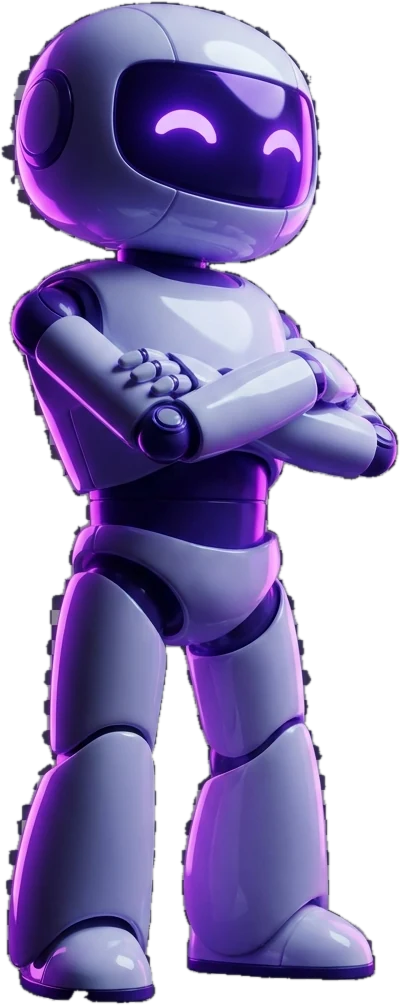
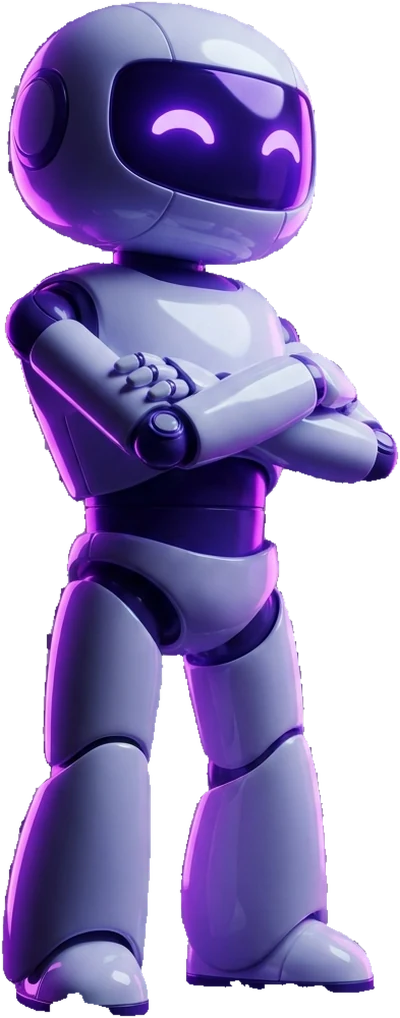
Recortar bien el robot: fuera el fleco dentado del damero
El generador ignoro "fondo transparente" y pinto el damero de cuadros que
representa la transparencia. El primer recorte lo quitaba casi todo, pero
dejaba un fleco dentado en el contorno que se veia a simple vista.

La causa, medida pixel a pixel: las casillas oscuras pegadas al robot estan
TENIDAS por su luz violeta. Valores tipo (45,36,65), con saturacion de 22 a
45, cuando el umbral de "gris neutro" estaba en 20. Por eso sobrevivian
justo donde mas se notan.

Dos intentos que no valieron y quedan documentados en recortar-robot.py para
no repetirlos: reconstruir la rejilla del damero y comparar cada pixel con
su color teorico (la fase no es uniforme y sobrevivian columnas enteras), y
difuminar el borde (emborrona el fleco, no lo quita).

Lo que funciona: dos ramas para detectar el fondo -- gris claro y neutro, u
oscuro con mucho mas margen de tinte -- mas quedarse con la isla mas grande
para descartar las motas sueltas, mas contraer la mascara 1 px, que es donde
vive la mezcla entre robot y fondo. Se puede ser permisivo con los oscuros
porque la propagacion solo entra desde el borde de la imagen: las sombras
del interior del robot no se tocan.

El recorte pasa de 400x1005 a 400x1018 y el <img> se ajusta, que si no el
hueco reservado no cuadra y la pagina da un salto al cargar.

diff --git a/zepai-next/src/components/ui/galaxy-interactive-hero-section.tsx b/zepai-next/src/components/ui/galaxy-interactive-hero-section.tsx
@@ -165,7 +165,7 @@ export function HeroSection() {
             src="/hero/robot.webp"
             alt="Agente de IA de Zepai"
             width={400}
-            height={1005}
+            height={1018}
             decoding="async"
           />
         </div>

diff --git a/zepai-next/recortar-robot.py b/zepai-next/recortar-robot.py
@@ -1,0 +1,128 @@
+# -*- coding: utf-8 -*-
+"""Recorta la mascota sobre fondo transparente.
+
+El generador ignoro "fondo transparente" y pinto el damero de cuadros que
+los editores usan PARA REPRESENTAR transparencia. Es un fallo habitual, y
+quitarlo tiene mas miga de la que parece.
+
+Lo que NO funciono, por si se vuelve a intentar:
+
+  - "Borra todo lo gris". Deja un fleco dentado en el contorno: las casillas
+    oscuras pegadas al robot estan TENIDAS por su luz violeta -- valores
+    tipo (45,36,65), con saturacion de 22 a 45 -- asi que dejan de ser gris
+    neutro y sobreviven.
+  - Reconstruir la rejilla del damero y comparar cada pixel con el color que
+    le tocaria. La fase no es uniforme y sobrevivian columnas enteras.
+  - Difuminar el borde. Emborrona el fleco, no lo quita.
+
+Lo que si funciona, y es lo que hace este script:
+
+  1. Dos ramas para detectar el fondo: gris claro y neutro, u oscuro con
+     mucho mas margen de tinte. Se puede ser permisivo con los oscuros
+     porque la propagacion solo entra desde el borde de la imagen: las
+     sombras del interior del robot no se tocan nunca.
+  2. Propagacion en 8 direcciones desde los cuatro lados.
+  3. Quedarse solo con la isla mas grande, que descarta las motas sueltas.
+  4. Contraer la mascara 1 px, que es donde vive la corona de mezcla entre
+     robot y fondo.
+
+Y se comprueba el alfa por programa, no mirando: el visor de imagenes dibuja
+su propio damero y hace creer que el recorte fallo cuando esta bien.
+
+    python recortar-robot.py
+"""
+import os
+from collections import deque
+
+from PIL import Image, ImageFilter
+
+BASE = os.path.dirname(os.path.abspath(__file__))
+ORIGEN = os.path.join(BASE, "_fuentes", "robot", "B-brazos-cruzados.png")
+DESTINO = os.path.join(BASE, "public", "hero", "robot.webp")
+ANCHO = 400
+
+
+def es_fondo(c):
+    r, g, b = c
+    alto, sat = max(r, g, b), max(r, g, b) - min(r, g, b)
+    if alto <= 175 and sat <= 20:
+        return True                       # damero limpio, sus dos tonos
+    return alto <= 100 and sat <= 48      # damero oscuro tenido de violeta
+
+
+def mascara(im):
+    w, h = im.size
+    px = im.load()
+    fondo = bytearray(w * h)
+    cola = deque()
+
+    def sembrar(x, y):
+        if not fondo[y * w + x] and es_fondo(px[x, y]):
+            fondo[y * w + x] = 1
+            cola.append((x, y))
+
+    for x in range(w):
+        sembrar(x, 0)
+        sembrar(x, h - 1)
+    for y in range(h):
+        sembrar(0, y)
+        sembrar(w - 1, y)
+
+    vecinos = ((1, 0), (-1, 0), (0, 1), (0, -1), (1, 1), (1, -1), (-1, 1), (-1, -1))
+    while cola:
+        x, y = cola.popleft()
+        for dx, dy in vecinos:
+            nx, ny = x + dx, y + dy
+            if 0 <= nx < w and 0 <= ny < h and not fondo[ny * w + nx] and es_fondo(px[nx, ny]):
+                fondo[ny * w + nx] = 1
+                cola.append((nx, ny))
+
+    # Solo la isla mas grande de lo que no es fondo: fuera las motas
+    visto = bytearray(w * h)
+    mayor, isla_mayor = 0, []
+    for sy in range(0, h, 3):
+        for sx in range(0, w, 3):
+            if fondo[sy * w + sx] or visto[sy * w + sx]:
+                continue
+            visto[sy * w + sx] = 1
+            cola, isla = deque([(sx, sy)]), []
+            while cola:
+                x, y = cola.popleft()
+                isla.append((x, y))
+                for dx, dy in ((1, 0), (-1, 0), (0, 1), (0, -1)):
+                    nx, ny = x + dx, y + dy
+                    j = ny * w + nx
+                    if 0 <= nx < w and 0 <= ny < h and not fondo[j] and not visto[j]:
+                        visto[j] = 1
+                        cola.append((nx, ny))
+            if len(isla) > mayor:
+                mayor, isla_mayor = len(isla), isla
+
+    m = bytearray(w * h)
+    for x, y in isla_mayor:
+        m[y * w + x] = 255
+    a = Image.frombytes("L", (w, h), bytes(m))
+    a = a.filter(ImageFilter.MinFilter(3))      # contraer 1 px
+    return a.filter(ImageFilter.GaussianBlur(0.5)), mayor / float(w * h)
+
+
+def main():
+    im = Image.open(ORIGEN).convert("RGB")
+    alpha, cobertura = mascara(im)
+    out = im.convert("RGBA")
+    out.putalpha(alpha)
+    out = out.crop(out.getbbox())
+    out = out.resize((ANCHO, round(ANCHO * out.size[1] / out.size[0])), Image.LANCZOS)
+    os.makedirs(os.path.dirname(DESTINO), exist_ok=True)
+    out.save(DESTINO, "WEBP", quality=88, method=6)
+
+    a = out.split()[3]
+    w, h = out.size
+    esquinas = [a.getpixel(p) for p in ((0, 0), (w - 1, 0), (0, h - 1), (w - 1, h - 1))]
+    print("robot: %.1f%% de la imagen original" % (100 * cobertura))
+    print("salida: %s  %.0f KB" % (out.size, os.path.getsize(DESTINO) / 1024))
+    print("alfa en las esquinas: %s  %s" % (esquinas, "OK" if max(esquinas) == 0 else "REVISAR"))
+
+
+if __name__ == "__main__":
+    main()
